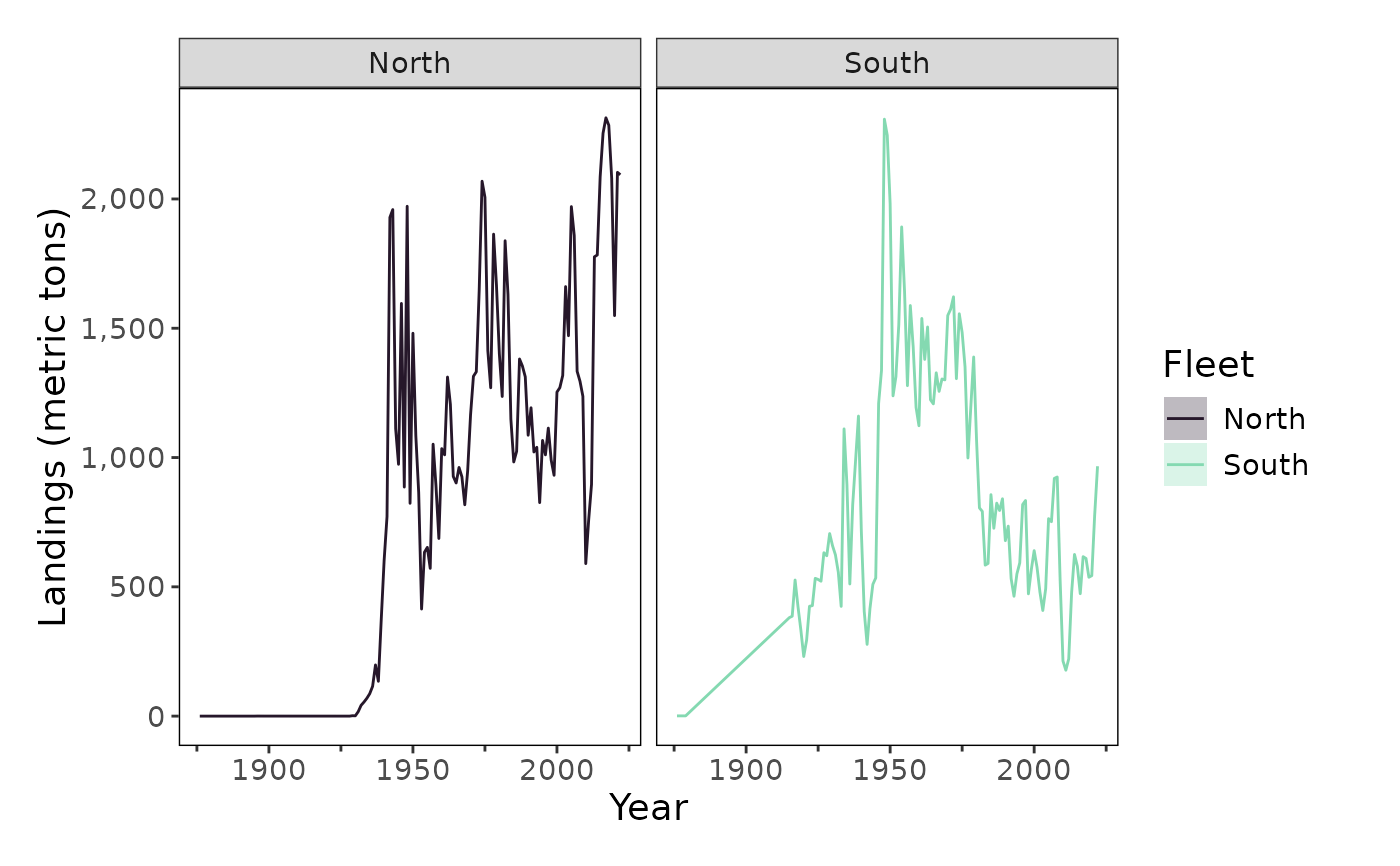
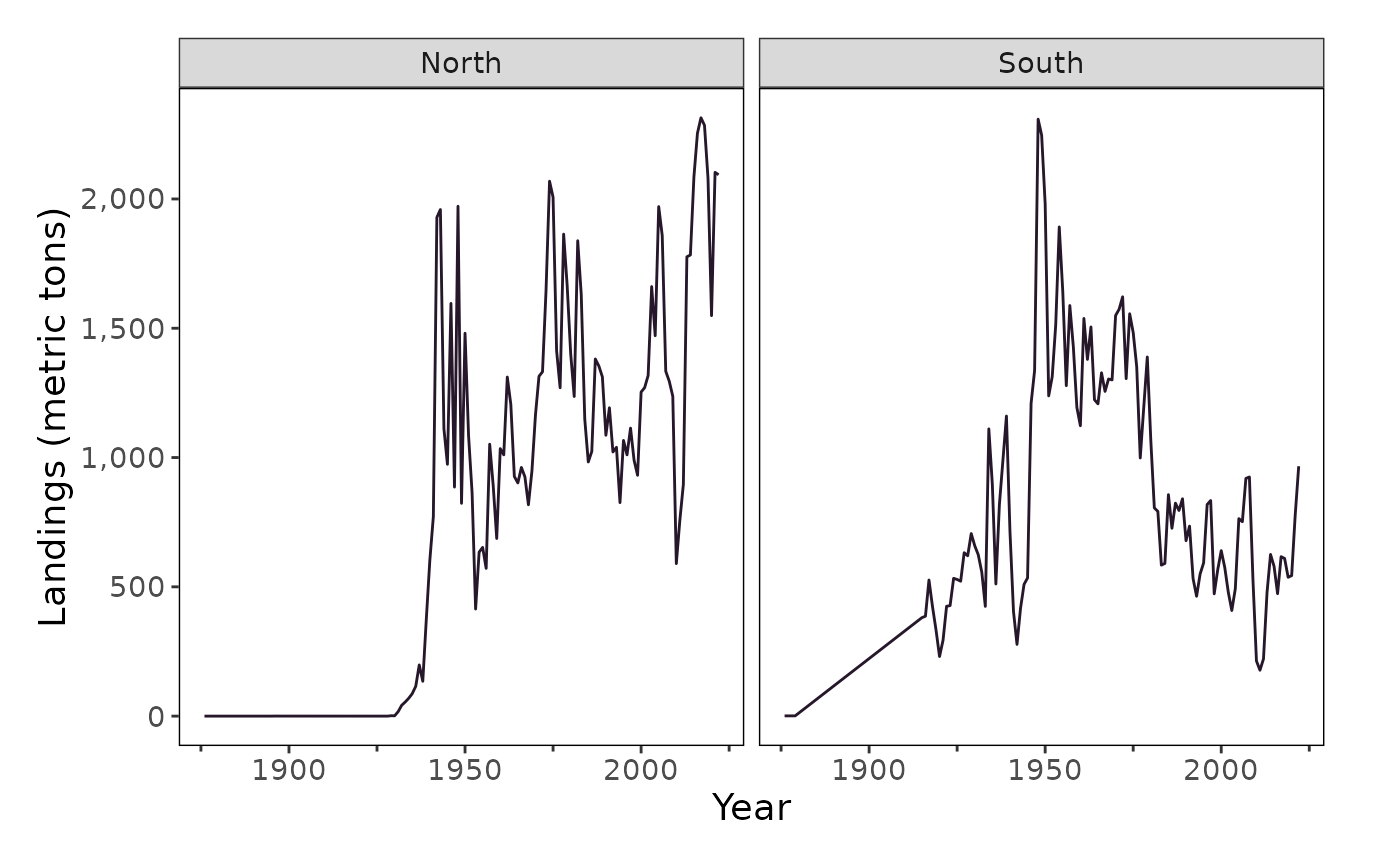
Deploying to gh-pages from @ nmfs-ost/stockplotr@89a937b32e07d81c416e939e7e1a8cf5a135689a 🚀

diff --git a/reference/plot_landings.html b/reference/plot_landings.html
@@ -83,7 +83,7 @@
   <div class="col-md-9 contents">
     <div class="page-header">
     <h1>Plot observed landings</h1>
-    <small class="dont-index">Source: <a href="https://github.com/nmfs-ost/stockplotr/blob/v0.11.0/R/plot_landings.R" class="external-link"><code>R/plot_landings.R</code></a></small>
+    <small class="dont-index">Source: <a href="https://github.com/nmfs-ost/stockplotr/blob/main/R/plot_landings.R" class="external-link"><code>R/plot_landings.R</code></a></small>
     <div class="hidden name"><code>plot_landings.Rd</code></div>
     </div>
 
@@ -230,9 +230,6 @@ containing associated caption and alternative text for the figure.</p>
 <span class="r-in"><span><span class="op">)</span></span></span>
 <span class="r-msg co"><span class="r-pr">#&gt;</span> <span style="color: #BBBB00;">!</span> Multiple module names found in data. </span>
 <span class="r-msg co"><span class="r-pr">#&gt;</span> <span style="color: #00BBBB;">ℹ</span> Environment not interactive. Selecting CATCH.</span>
-<span class="r-msg co"><span class="r-pr">#&gt;</span> Ignoring unknown labels:</span>
-<span class="r-msg co"><span class="r-pr">#&gt;</span> <span style="color: #00BBBB;">•</span> <span style="color: #00BB00;">linetype</span> : <span style="color: #0000BB;">"Fleet"</span></span>
-<span class="r-msg co"><span class="r-pr">#&gt;</span> <span style="color: #00BBBB;">•</span> <span style="color: #00BB00;">shape</span> : <span style="color: #0000BB;">"Fleet"</span></span>
 <span class="r-plt img"><img src="plot_landings-2.png" alt="" width="700" height="433"></span>
 </code></pre></div>
     </div>

diff --git a/articles/convert_output_details.html b/articles/convert_output_details.html
@@ -109,7 +109,7 @@
       <h1 data-toc-skip>Standardizing Assessment Model Output</h1>
             
       
-      <small class="dont-index">Source: <a href="https://github.com/nmfs-ost/stockplotr/blob/v0.11.0/vignettes/convert_output_details.Rmd" class="external-link"><code>vignettes/convert_output_details.Rmd</code></a></small>
+      <small class="dont-index">Source: <a href="https://github.com/nmfs-ost/stockplotr/blob/main/vignettes/convert_output_details.Rmd" class="external-link"><code>vignettes/convert_output_details.Rmd</code></a></small>
       <div class="hidden name"><code>convert_output_details.Rmd</code></div>
 
     </div>

diff --git a/articles/faqs.html b/articles/faqs.html
@@ -109,7 +109,7 @@
       <h1 data-toc-skip>Frequently Asked Questions (FAQs)</h1>
             
       
-      <small class="dont-index">Source: <a href="https://github.com/nmfs-ost/stockplotr/blob/v0.11.0/vignettes/faqs.Rmd" class="external-link"><code>vignettes/faqs.Rmd</code></a></small>
+      <small class="dont-index">Source: <a href="https://github.com/nmfs-ost/stockplotr/blob/main/vignettes/faqs.Rmd" class="external-link"><code>vignettes/faqs.Rmd</code></a></small>
       <div class="hidden name"><code>faqs.Rmd</code></div>
 
     </div>

diff --git a/articles/how-caps-alttext-are-made.html b/articles/how-caps-alttext-are-made.html
@@ -110,7 +110,7 @@
 generated</h1>
             
       
-      <small class="dont-index">Source: <a href="https://github.com/nmfs-ost/stockplotr/blob/v0.11.0/vignettes/how-caps-alttext-are-made.Rmd" class="external-link"><code>vignettes/how-caps-alttext-are-made.Rmd</code></a></small>
+      <small class="dont-index">Source: <a href="https://github.com/nmfs-ost/stockplotr/blob/main/vignettes/how-caps-alttext-are-made.Rmd" class="external-link"><code>vignettes/how-caps-alttext-are-made.Rmd</code></a></small>
       <div class="hidden name"><code>how-caps-alttext-are-made.Rmd</code></div>
 
     </div>

diff --git a/authors.html b/authors.html
@@ -111,7 +111,7 @@
     <div class="section level2 citation-section">
     <div>
       <h1 id="citation">Citation</h1>
-      <small class="dont-index">Source: <a href="https://github.com/nmfs-ost/stockplotr/blob/v0.11.0/DESCRIPTION" class="external-link"><code>DESCRIPTION</code></a></small>
+      <small class="dont-index">Source: <a href="https://github.com/nmfs-ost/stockplotr/blob/main/DESCRIPTION" class="external-link"><code>DESCRIPTION</code></a></small>
     </div>
     </div>
 

diff --git a/reference/add_theme.html b/reference/add_theme.html
@@ -83,7 +83,7 @@
   <div class="col-md-9 contents">
     <div class="page-header">
     <h1>Add NOAA formatting to figure or table</h1>
-    <small class="dont-index">Source: <a href="https://github.com/nmfs-ost/stockplotr/blob/v0.11.0/R/add_theme.R" class="external-link"><code>R/add_theme.R</code></a></small>
+    <small class="dont-index">Source: <a href="https://github.com/nmfs-ost/stockplotr/blob/main/R/add_theme.R" class="external-link"><code>R/add_theme.R</code></a></small>
     <div class="hidden name"><code>add_theme.Rd</code></div>
     </div>
 

diff --git a/reference/check_label_differences.html b/reference/check_label_differences.html
@@ -83,7 +83,7 @@
   <div class="col-md-9 contents">
     <div class="page-header">
     <h1>Create loop to test for differences in column values</h1>
-    <small class="dont-index">Source: <a href="https://github.com/nmfs-ost/stockplotr/blob/v0.11.0/R/utils_table.R" class="external-link"><code>R/utils_table.R</code></a></small>
+    <small class="dont-index">Source: <a href="https://github.com/nmfs-ost/stockplotr/blob/main/R/utils_table.R" class="external-link"><code>R/utils_table.R</code></a></small>
     <div class="hidden name"><code>check_label_differences.Rd</code></div>
     </div>
 

diff --git a/reference/convert_output.html b/reference/convert_output.html
@@ -83,7 +83,7 @@
   <div class="col-md-9 contents">
     <div class="page-header">
     <h1>Convert Output</h1>
-    <small class="dont-index">Source: <a href="https://github.com/nmfs-ost/stockplotr/blob/v0.11.0/R/convert_output.R" class="external-link"><code>R/convert_output.R</code></a></small>
+    <small class="dont-index">Source: <a href="https://github.com/nmfs-ost/stockplotr/blob/main/R/convert_output.R" class="external-link"><code>R/convert_output.R</code></a></small>
     <div class="hidden name"><code>convert_output.Rd</code></div>
     </div>
 

diff --git a/reference/create_latex_table.html b/reference/create_latex_table.html
@@ -83,7 +83,7 @@
   <div class="col-md-9 contents">
     <div class="page-header">
     <h1>Create the rda package for a plot or table</h1>
-    <small class="dont-index">Source: <a href="https://github.com/nmfs-ost/stockplotr/blob/v0.11.0/R/utils_table.R" class="external-link"><code>R/utils_table.R</code></a></small>
+    <small class="dont-index">Source: <a href="https://github.com/nmfs-ost/stockplotr/blob/main/R/utils_table.R" class="external-link"><code>R/utils_table.R</code></a></small>
     <div class="hidden name"><code>create_latex_table.Rd</code></div>
     </div>
 

diff --git a/reference/create_rda.html b/reference/create_rda.html
@@ -83,7 +83,7 @@
   <div class="col-md-9 contents">
     <div class="page-header">
     <h1>Create the rda package for a plot or table</h1>
-    <small class="dont-index">Source: <a href="https://github.com/nmfs-ost/stockplotr/blob/v0.11.0/R/utils_rda.R" class="external-link"><code>R/utils_rda.R</code></a></small>
+    <small class="dont-index">Source: <a href="https://github.com/nmfs-ost/stockplotr/blob/main/R/utils_rda.R" class="external-link"><code>R/utils_rda.R</code></a></small>
     <div class="hidden name"><code>create_rda.Rd</code></div>
     </div>
 

diff --git a/reference/example_data.html b/reference/example_data.html
@@ -84,7 +84,7 @@ convert_output(). This example is from the 2022 Petrale sole stock assessment.">
   <div class="col-md-9 contents">
     <div class="page-header">
     <h1>SS3 Example data</h1>
-    <small class="dont-index">Source: <a href="https://github.com/nmfs-ost/stockplotr/blob/v0.11.0/R/data.R" class="external-link"><code>R/data.R</code></a></small>
+    <small class="dont-index">Source: <a href="https://github.com/nmfs-ost/stockplotr/blob/main/R/data.R" class="external-link"><code>R/data.R</code></a></small>
     <div class="hidden name"><code>example_data.Rd</code></div>
     </div>
 

diff --git a/reference/export_kqs.html b/reference/export_kqs.html
@@ -83,7 +83,7 @@
   <div class="col-md-9 contents">
     <div class="page-header">
     <h1>Export updated key quantities template</h1>
-    <small class="dont-index">Source: <a href="https://github.com/nmfs-ost/stockplotr/blob/v0.11.0/R/utils_rda.R" class="external-link"><code>R/utils_rda.R</code></a></small>
+    <small class="dont-index">Source: <a href="https://github.com/nmfs-ost/stockplotr/blob/main/R/utils_rda.R" class="external-link"><code>R/utils_rda.R</code></a></small>
     <div class="hidden name"><code>export_kqs.Rd</code></div>
     </div>
 